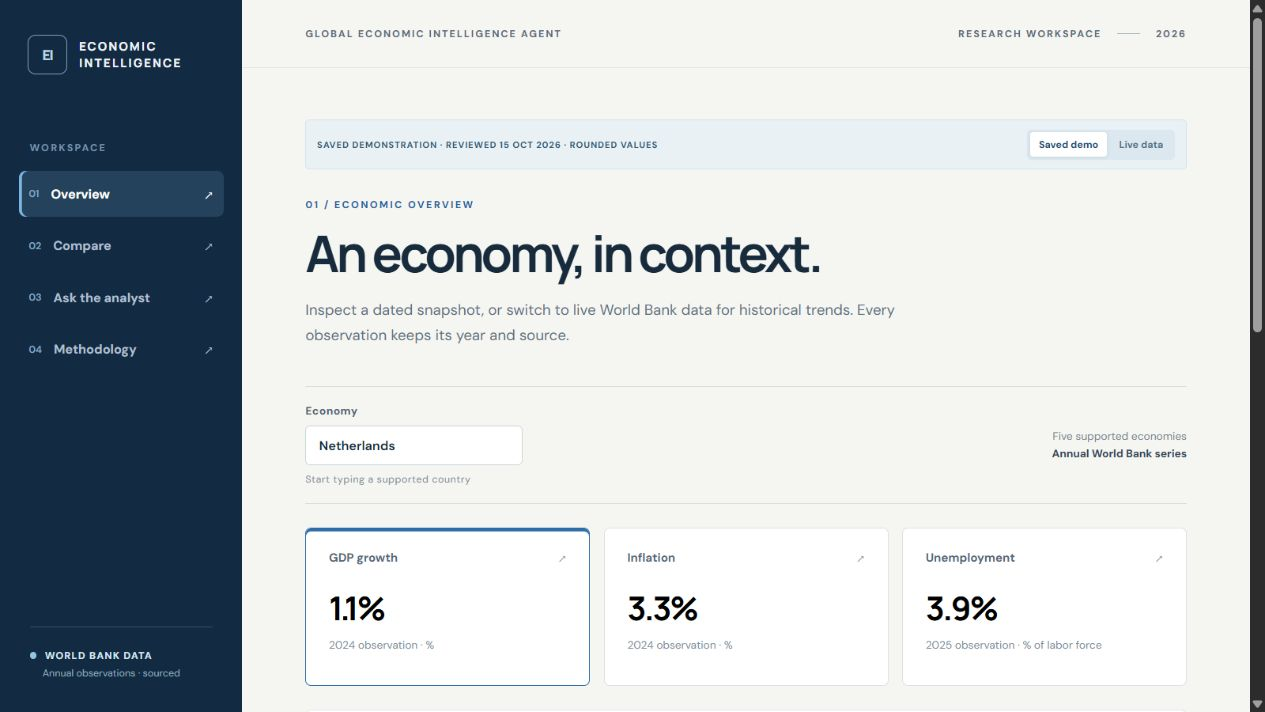
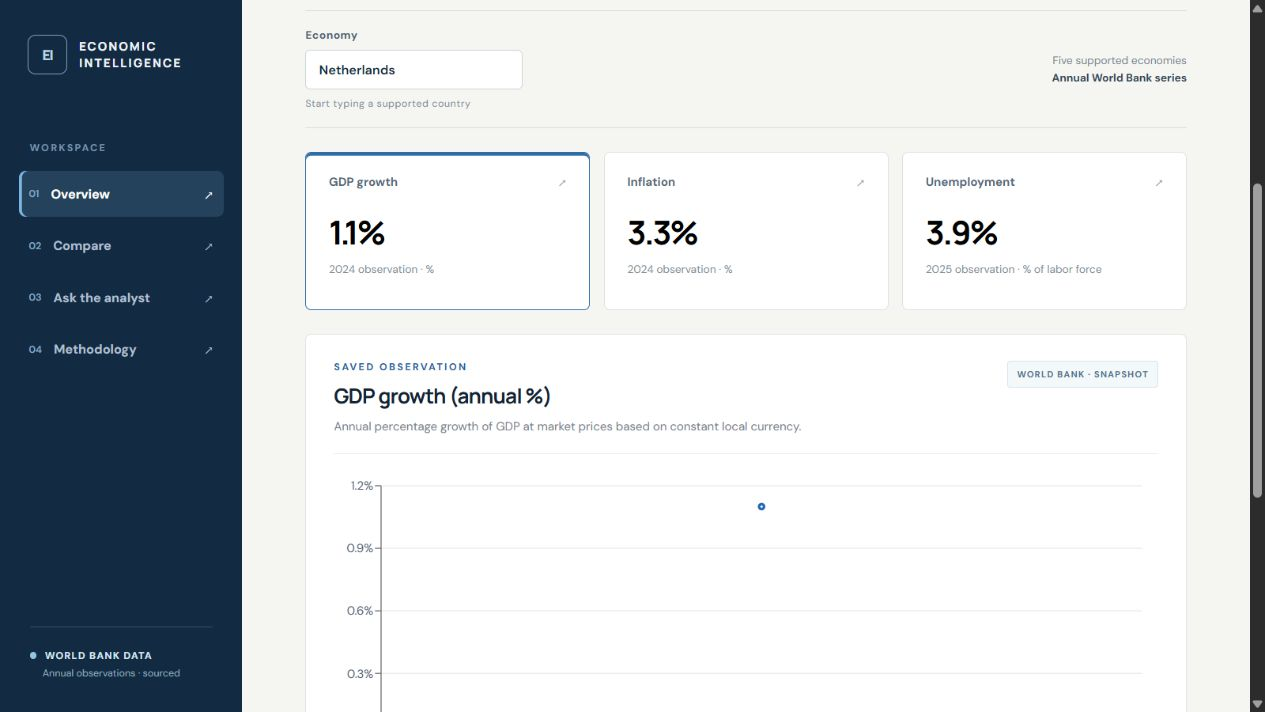
Document verified Cloudflare deployment

diff --git a/README.md b/README.md
@@ -6,7 +6,7 @@ An economic research workspace that asks: **What is happening in this economy, w
 
 ![Economic overview in the saved demonstration](docs/overview.png)
 
-**Release status, 15 October 2026:** the web app builds and deterministic tests pass. The saved-data overview, comparison, analyst and PDF download were exercised in a browser. A live Netherlands analysis also retrieved annual World Bank observations and their provider-update date. It is **not deployed** to the owner's Cloudflare account: Wrangler reported no authenticated account on this machine. The deployed URL still needs a post-deploy smoke test.
+**Release status, 15 October 2026:** the app is deployed on Cloudflare at [global-economic-intelligence.nicholai-gay.workers.dev](https://global-economic-intelligence.nicholai-gay.workers.dev). The saved-data overview, comparison, source-linked analyst and PDF workflow were exercised in a browser. The Cloudflare preview and production Workers both served the app, and live Netherlands observations were retrieved through the deployed API. No custom domain or paid model service is configured.
 
 ## Visitor experience
 
@@ -72,9 +72,11 @@ This release has five countries and three indicators. Its report index is curate
 
 Measured locally on 15 October 2026: **14 web tests passed**, the TypeScript production build and production Worker dry run passed, and representative saved-demo and live-data one-page PDFs were rendered and visually inspected. Saved-demo browser flows were checked at desktop and mobile widths; a live Netherlands analyst answer returned annual World Bank data. No accuracy, latency or accessibility score is claimed.
 
+Post-deploy smoke checks confirmed the preview homepage, saved-data comparison and analyst views, live World Bank series and live analyst answer. The production homepage, saved-data analyst and live World Bank series were also checked. New `workers.dev` routes briefly returned Cloudflare error 1042 during propagation; subsequent checks succeeded.
+
 ## Cloudflare deployment
 
-[wrangler.jsonc](web/wrangler.jsonc) defines separate preview and production Worker names. No secret or paid service is required. From `web/`:
+[wrangler.jsonc](web/wrangler.jsonc) defines separate preview and production Worker names. The [preview](https://global-economic-intelligence-preview.nicholai-gay.workers.dev) and [production](https://global-economic-intelligence.nicholai-gay.workers.dev) deployments use distinct `workers.dev` URLs and leave existing Cloudflare sites and domains untouched. No secret or paid service is required. For a fresh checkout or redeployment, from `web/`:
 
 ```bash
 npx wrangler login

diff --git a/docs/portfolio-copy.md b/docs/portfolio-copy.md
@@ -2,11 +2,9 @@
 
 ## CV (two bullets)
 
-- Built a Cloudflare-ready economic research web app in React, TypeScript and Workers, with source-labelled World Bank indicators, dated saved data, country comparisons and shareable URL state.
+- Deployed an economic research web app on Cloudflare Workers using React and TypeScript, with source-labelled World Bank indicators, dated saved data, country comparisons and shareable URL state.
 - Designed a deterministic evidence and briefing workflow with validated report passage IDs, explicit data limitations, concurrent-safe browser PDF export, focused tests and CI.
 
 ## LinkedIn project description
 
-I developed the Global Economic Intelligence Agent from a FastAPI/Streamlit prototype into a Cloudflare-ready research workspace. Visitors can explore annual World Bank indicators for five economies, compare countries on common periods, ask supported questions, inspect indicator and dated report sources, and export the exact displayed assessment as a PDF. The public release uses deterministic calculations and a clearly labelled saved demonstration; it does not rely on paid model calls or claim a deployed production URL. I documented the remaining live-data and Cloudflare smoke tests so another engineer can reproduce the release.
-
-Use “deployed” or add a public URL only after the preview and production checks are complete.
+I developed the Global Economic Intelligence Agent from a FastAPI/Streamlit prototype into a [deployed Cloudflare research workspace](https://global-economic-intelligence.nicholai-gay.workers.dev). Visitors can explore annual World Bank indicators for five economies, compare countries on common periods, ask supported questions, inspect indicator and dated report sources, and export the exact displayed assessment as a PDF. The public release uses deterministic calculations and a clearly labelled saved demonstration; it makes no paid model calls. Preview and production deployments were smoke-tested with live World Bank data.

diff --git a/docs/engineering-case-study.md b/docs/engineering-case-study.md
@@ -22,6 +22,6 @@ Per-isolate throttling and bounded inputs are useful guardrails; they are not an
 
 ## Verification and honest limits
 
-Unit tests cover parsing, evidence selection, arithmetic, pagination, failures, citation IDs and isolated PDF generation. The saved-demo flows were inspected in a browser at desktop and mobile widths. A representative PDF was rendered and visually reviewed. CI runs without paid calls. The development environment blocked direct access to `api.worldbank.org`, so the live API and Cloudflare runtime still need smoke tests after deployment. Wrangler reported no authenticated account, so no live URL is claimed.
+Unit tests cover parsing, evidence selection, arithmetic, pagination, failures, citation IDs and isolated PDF generation. The saved-demo flows were inspected in a browser at desktop and mobile widths. Representative saved and live-data PDFs were rendered and visually reviewed. CI runs without paid calls. The preview and production Workers were deployed to separate `workers.dev` URLs; post-deploy checks confirmed the public app and live World Bank access. No custom domain or paid inference was enabled.
 
 The next evidence-system milestone is a fully versioned ingestion pipeline: record publisher/title/date/page/URL/checksum for each passage, normalize and hash documents, reindex on content or embedding-model changes, store vectors and passages in durable Cloudflare services or an explicitly operated backend, and evaluate relevance and support against the versioned question set before enabling model synthesis.
